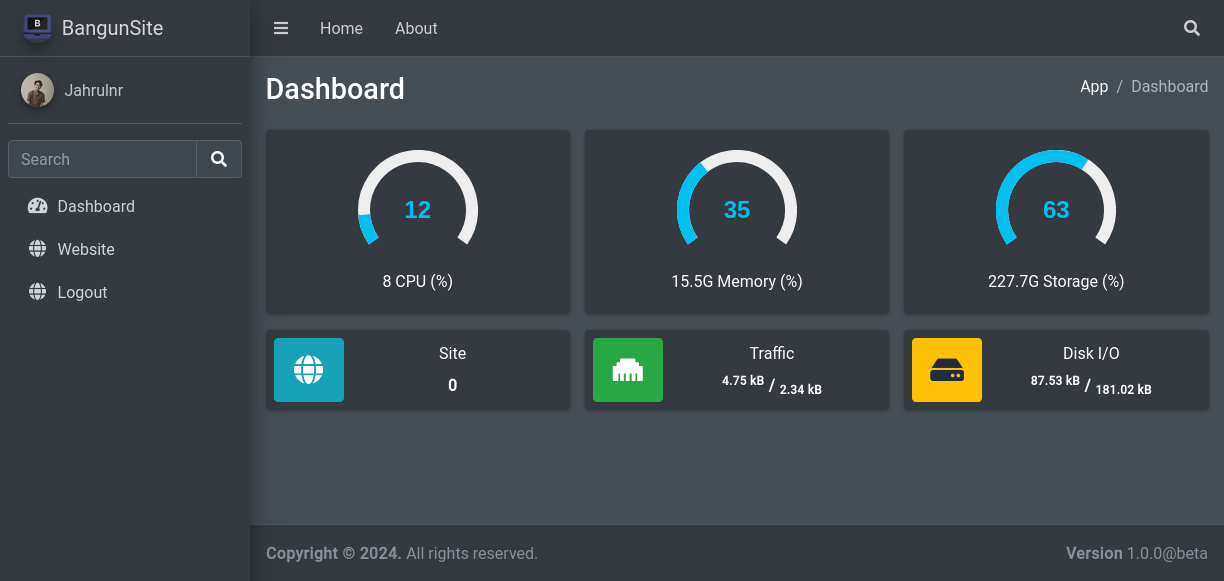
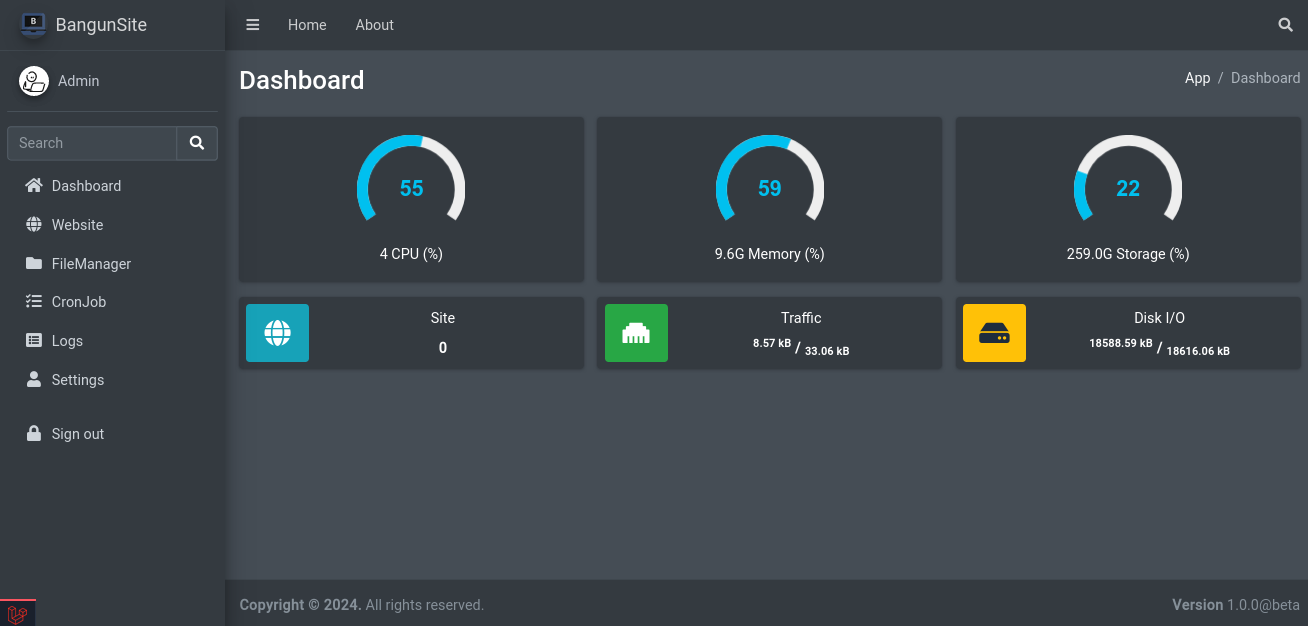
Update Readme

diff --git a/README.md b/README.md
@@ -1,4 +1,4 @@
-![dashboard](screenshots/dashboard.png)
+![dashboard](/screenshots/dashboard.png)
 
 # BangunSite
 
@@ -14,6 +14,8 @@ This project is a BangunSite built using Laravel, Docker, Nginx, Certbot, and PH
 
 - **Certbot Integration**: Includes Certbot for automating the process of obtaining and renewing SSL certificates. This ensures secure communication between clients and the web server.
 
+- **Cronjobs Integration**: With this feature, you can define and manage cronjobs directly from the web interface. This includes scheduling recurring tasks and executing commands.
+
 - **PHP 8.2 Support**: Runs Laravel applications specifically on PHP 8.2, leveraging the latest features and improvements in the PHP language.
 
 ## Getting Started
@@ -28,23 +30,12 @@ This project is a BangunSite built using Laravel, Docker, Nginx, Certbot, and PH
 1. Clone this repository to your local machine:
 
     ```bash
-    git clone https://github.com/jahrulnr/bangunsite.git
-    ```
+    git clone --branch development https://github.com/jahrulnr/bangunsite.git
 
-2. Navigate to the project directory:
-
-    ```bash
-    cd bangunsite
-    git switch development
-    ```
-
-3. Build and start the Docker containers:
+2. Build and start the Docker containers:
 
     ```bash
-    make up-vm
-    make cp-db
-    docker exec -i bangunsite artisan key:generate
-    make migrate
+    make install
     ```
 
 4. Access the Laravel BangunSite at `http://localhost:8080` in your web browser.
